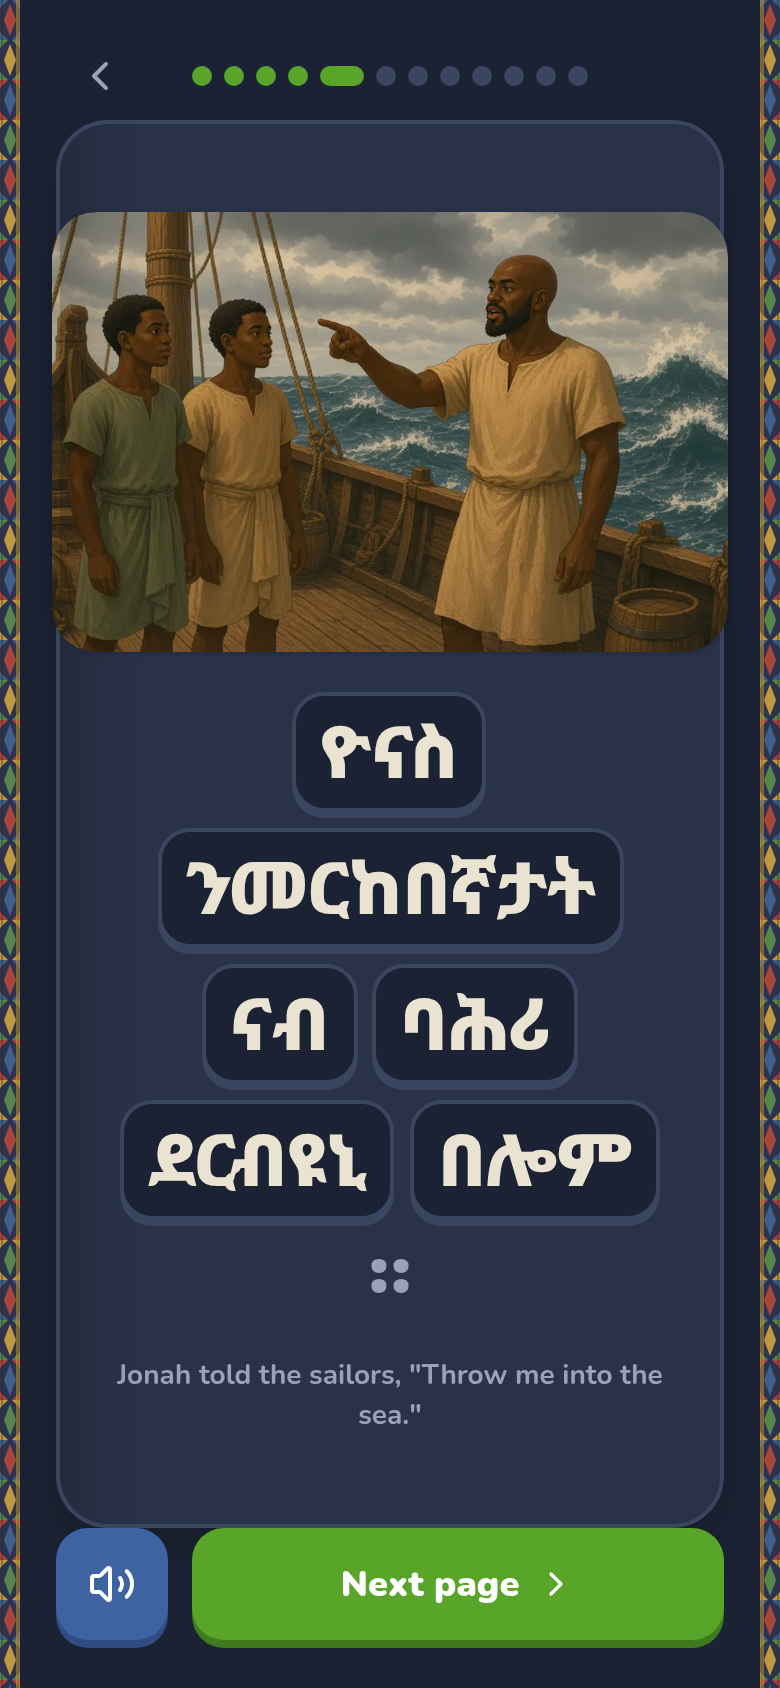
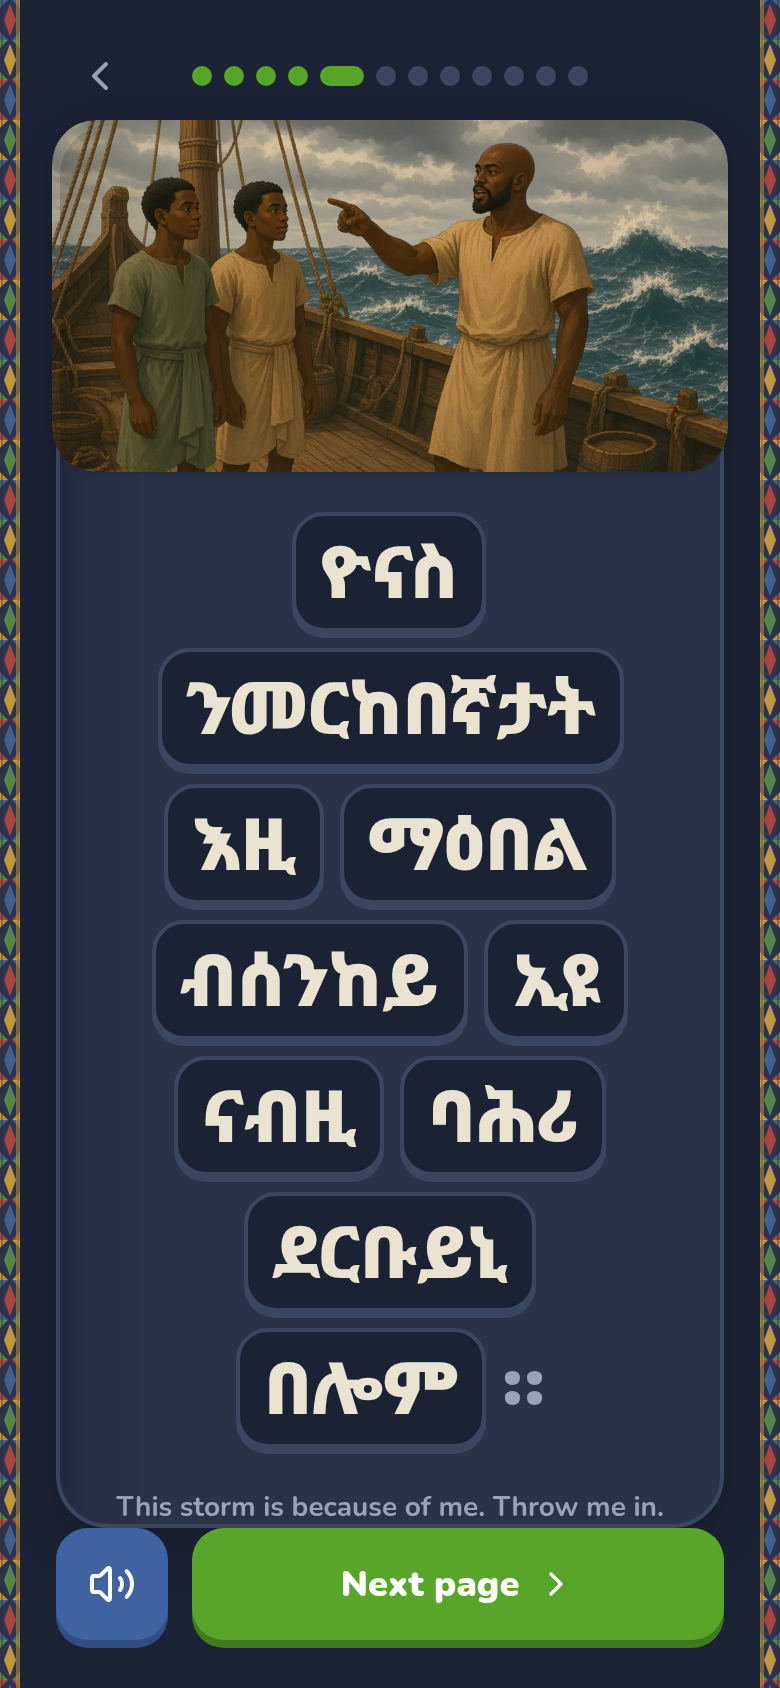
Apply Yosief's Jonah wording and repaint the ship and the fish.
The storm is ዓቢይ, the sailors saw it as ርእዮም, and Jonah says ደርቡይኒ. Page 12 keeps the mercy line only; the refrain stays on the end card. The fish stays ዓባይ ዓሳ. Page 6 is a one-mast ship lowering Jonah, and page 9 uses the same fish as the swallow page.

diff --git a/src/data/bibleStories.test.js b/src/data/bibleStories.test.js
@@ -341,30 +341,30 @@ describe('jonah bible book', () => {
     expect(book.pages.map((p) => p.geez)).toEqual([
       'እግዚኣብሄር ንዮናስ ናብ ነነዌ ክኸይድ ኣዘዞ።',
       'ዮናስ ግና ሃደመ። ናብ ተርሴስ መርከብ ኣተወ።',
-      'እታ መርከብ ኣብ ባሕሪ ከላ፡ ዓባይ ማዕበል መጸ።',
-      'እቶም መርከበኛታት ነቲ ማዕበል ረኣዩ። ፈርሑ።',
-      'ዮናስ ንመርከበኛታት ናብ ባሕሪ ደርብዩኒ በሎም።',
+      'እታ መርከብ ኣብ ባሕሪ ከላ፡ ዓቢይ ማዕበል መጸ።',
+      'እቶም መርከበኛታት ነቲ ማዕበል ርእዮም ፈርሑ።',
+      'ዮናስ ንመርከበኛታት፡ እዚ ማዕበል ብሰንከይ ኢዩ፡ ናብዚ ባሕሪ ደርቡይኒ በሎም።',
       'እቶም መርከበኛታት ንዮናስ ናብ ባሕሪ ደርበይዎ። ማዕበል ደው በለ።',
       'ሽዑ ዓባይ ዓሳ ንዮናስ ውሕጦ።',
       'ዮናስ ኣብ ከብዲ እቲ ዓሳ ሰለስተ መዓልቲ ጸለየ።',
       'እቲ ዓሳ ንዮናስ ኣብ ንቑጽ ምድሪ ኣንበሮ።',
       'እግዚኣብሄር ዳግማይ ኣዘዞ። ዮናስ ሰሚዑ ናብ ነነዌ ከደ።',
       'ሰብ ነነዌ ንእግዚኣብሄር ሰምዑ። ካብ ክፉእ መንገዶም ተመለሱ።',
-      'እግዚኣብሄር ብምሕረት ንሰብ ነነዌ ይቕረ በሎም። ንእግዚኣብሄር ቅድም ሰምዕ።',
+      'እግዚኣብሄር ብምሕረት ንሰብ ነነዌ ይቕረ በሎም።',
     ])
     expect(book.pages.map((p) => p.meaningEn)).toEqual([
       'God commanded Jonah to go to Nineveh.',
       'But Jonah ran away. He boarded a ship to Tarshish.',
       'While the ship was on the sea, a big storm came.',
-      'The sailors saw the storm. They were afraid.',
-      'Jonah told the sailors, "Throw me into the sea."',
+      'The sailors saw the storm and were afraid.',
+      'This storm is because of me. Throw me in.',
       'The sailors threw Jonah into the sea. The storm stopped.',
       'Then a big fish swallowed Jonah.',
       'Jonah prayed in the belly of the fish for three days.',
       'The fish set Jonah on dry land.',
       'God commanded him again. Jonah listened and went to Nineveh.',
       'The people of Nineveh listened to God. They turned from their bad way.',
-      'God mercifully forgave the people of Nineveh. Listen to God the first time.',
+      'God mercifully forgave the people of Nineveh.',
     ])
     expect(blob.includes('አ')).toBe(false)
     expect(blob.includes('ሔ')).toBe(false)
@@ -382,6 +382,10 @@ describe('jonah bible book', () => {
     expect(blob.includes('ምሕረት')).toBe(true)
     expect(blob.includes('ይቕረ')).toBe(true)
     expect(blob.includes('ቅድም ሰምዕ')).toBe(true)
+    expect(book.pages[2].geez.includes('ዓቢይ ማዕበል')).toBe(true)
+    expect(book.pages[2].geez.includes('ዓባይ')).toBe(false)
+    expect(book.pages[6].geez.includes('ዓባይ ዓሳ')).toBe(true)
+    expect(book.pages[11].geez.includes('ቅድም ሰምዕ')).toBe(false)
     expect(book.pages.length).toBe(12)
     for (const page of book.pages) {
       expect(storyWords(page.geez).length, page.geez).toBeGreaterThan(0)

diff --git a/src/components/StoryTime.jsx b/src/components/StoryTime.jsx
@@ -338,7 +338,7 @@ export default function StoryTime({ soundOn, onBack, onStoryComplete = null }) {
               {/* illustrated picture-book scene (falls back to the plain
                   picture on a page/pack without a scene) */}
               {page.scene ? (
-                <StoryScene scene={page.scene} width={338} height={220} className="shadow-sm" rounded={22} />
+                <StoryScene scene={page.scene} width={338} height={words.length > 9 ? 176 : 220} className="shadow-sm" rounded={22} />
               ) : (
                 <div className="flex items-center justify-center rounded-3xl" style={{ width: 190, height: 150, background: SCENE_BG, border: '1.5px solid var(--line)' }} aria-hidden="true">
                   <WordPicture emoji={page.pic} size={120} />
